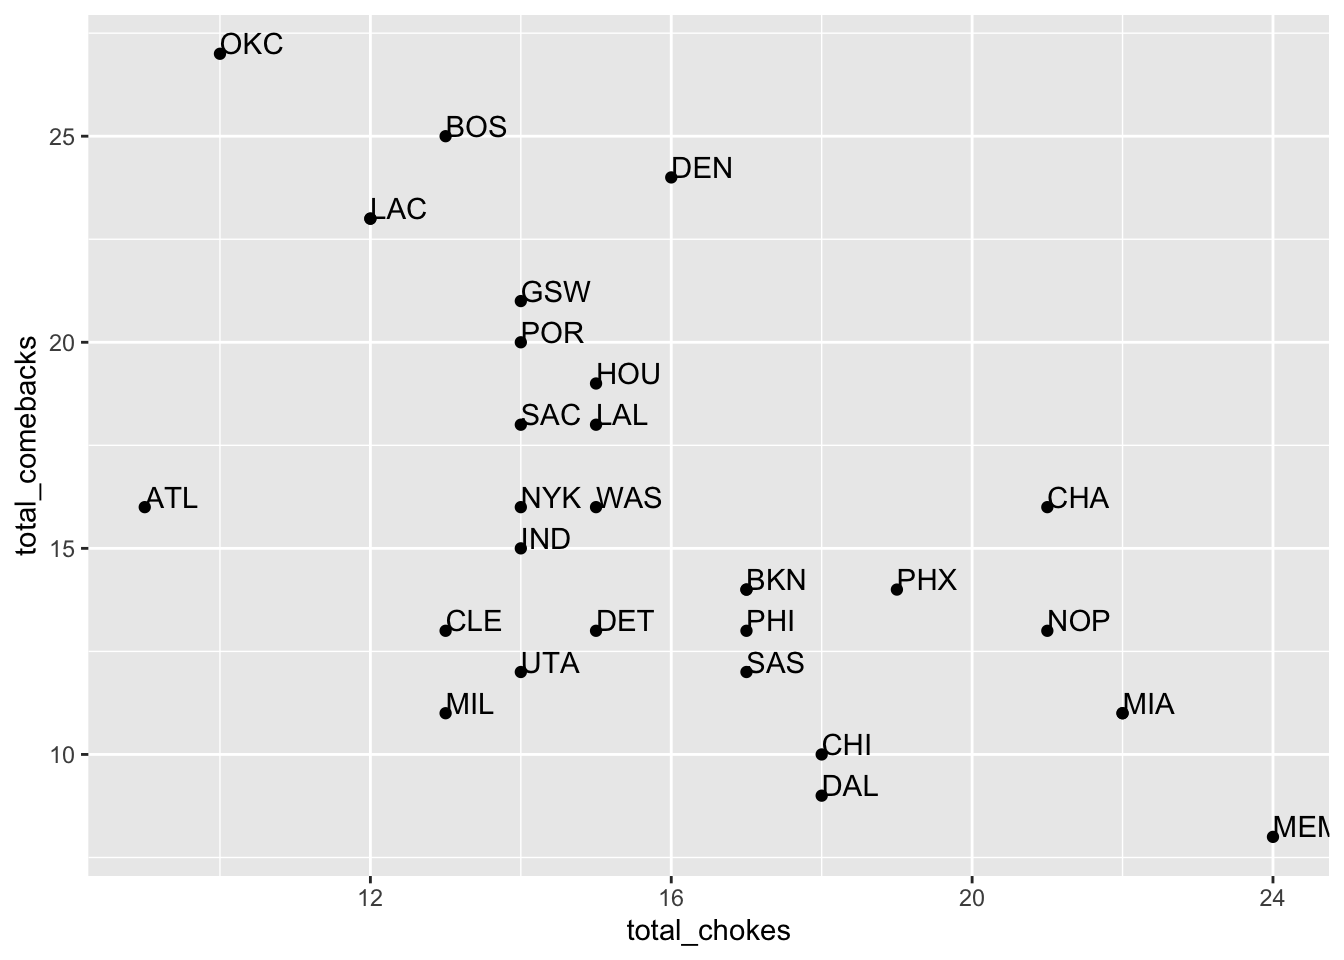
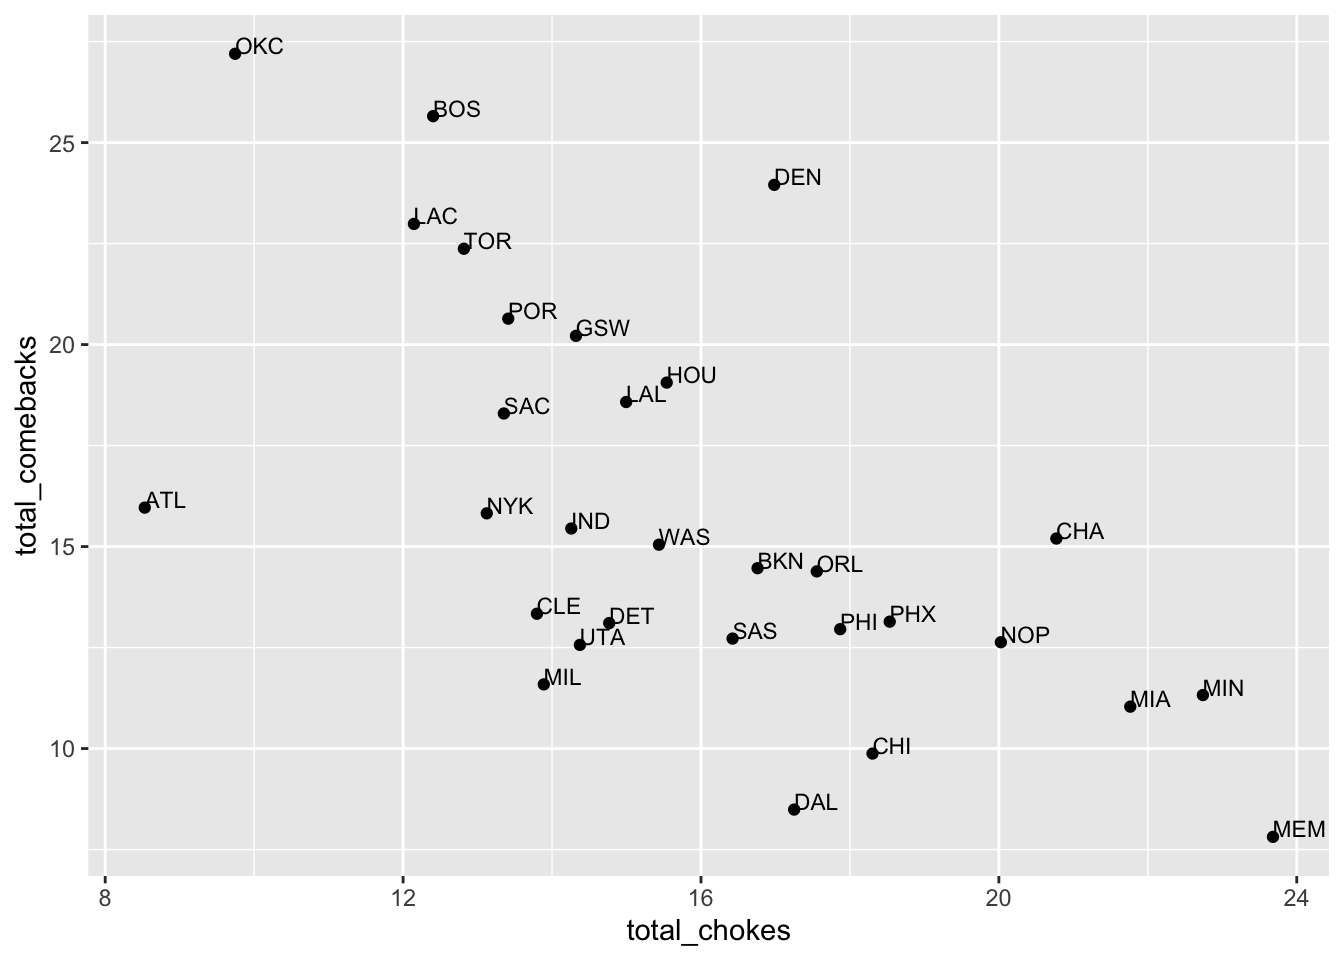
scatter plot writeup

diff --git a/docs/missing-values.html b/docs/missing-values.html
@@ -102,7 +102,7 @@
 <div id="missing-values" class="section level1" number="4">
 <h1><span class="header-section-number">Chapter 4</span> Missing values</h1>
 <p>Play-by-play missing data plot:
-<img src="finalproj_files/figure-html/unnamed-chunk-40-1.png" width="672" /></p>
+<img src="finalproj_files/figure-html/unnamed-chunk-6-1.png" width="672" /></p>
 <p>There are no fully complete cases in our play-by-play data set. While this appeared troublesome at first, further analysis of the dataset showed that these missing values are fairly intuitive. Most notably, there are 3 types of descriptions for (home description , away description, neutral description ). Intuitively, since we are looking at an for each row only 1 will appear in the data set. After looking through the data set, there are 2 specific cases in which there are both home and away descriptions: steal and turnover and shot attempt and blocked shot. Therefore, as we can see in our visualization of missing data, the “Neutral Description” variable is by far the least populated, which makes sense since there are very few reported neutral events in a game (such as: end of quarter 1, start of quarter 4…). However, as explained by the nature of home/visitor description, it is logical why these variables are also sparsely populated, due to their inherent mutually exclusive nature. As a result, we will end up merging these 3 columns into a single “description” variable, which will simply describe the play and will not be organized by home/away/neutral. This merged column will not contain missing values.</p>
 <p>Win probability is a crucial aspect of our analysis, and in our data set, we noticed that no win probabilities for either team are reported past the 5 minute mark in the 4th quarter. It is for this reason that the “HOME_PCT” and “VISITOR_PCT” also contain the next largest count of missing data. Due to this, we will not consider any win probabilities past this point in the game. However, given that our main research question is to classify the reasons for a game that ends in an upset, the 5 minute mark in the 4th quarter is a reasonable of the game to consider as a threshold. Therefore, it must be made clear that throughout our project, we are only able to identify games as ‘chokes’ when a team had a greater than 90% win probability, prior to entering the final 5 minutes of the game. Naturally, we have no issue with this restriction on our data set since the last few seconds of a game are likely extremely volatile and would likely skew our data. As a result, our chokes can be interpreted as instances when a team has a sizable lead at some point in the game prior to the final 5 minutes, and then subsequently loses.</p>
 <p>Other than these 2 important metrics, every other column is completely populated, since they contain data such as the time and points scored for each team, which can logically be reported at every instance of the game.</p>

diff --git a/docs/results.html b/docs/results.html
@@ -102,10 +102,11 @@
 <div id="results" class="section level1" number="5">
 <h1><span class="header-section-number">Chapter 5</span> Results</h1>
 <p>To begin our analysis, it seemed logical to first gain a sense of which teams have recorded the most total chokes, as well as comebacks over the last 4 seasons. As a result, we used a Cleveland Dot plot to display a ranking of these teams.</p>
-<p><img src="finalproj_files/figure-html/unnamed-chunk-43-1.png" width="672" /><img src="finalproj_files/figure-html/unnamed-chunk-43-2.png" width="672" /></p>
+<p><img src="finalproj_files/figure-html/unnamed-chunk-9-1.png" width="672" /><img src="finalproj_files/figure-html/unnamed-chunk-9-2.png" width="672" /></p>
 <p>It is interesting to note here initially the top 5 choke teams as: Memphis, Minnesota, Miami, New Orleans, Charlotte and the top 5 comeback teams as Oklahoma City, Boston, Denver, Toronto and Los Angeles. We will use these teams in a moment to further explore the possible relationships between high choke / comeback teams and other variables.</p>
 <p>Further, it should be noted that being a high-comeback team and being a high-choke team are not entirely mutually exclusive. This initial data visualization showed that it is possible that a team can very well lie in both categories. A team can be simply extremely volatile (or stable) once they have secured a 90% (or fallen to a 10%) win probability, however the direction of that volatility is not consistent. Although there is no overlap within the top 5 teams in each category, it would be useful to determine if certain teams are just extremely volatile in both direction, given a sizable lead or disadvantage.</p>
-<p><img src="finalproj_files/figure-html/unnamed-chunk-44-1.png" width="672" /></p>
+<p><img src="finalproj_files/figure-html/unnamed-chunk-10-1.png" width="672" /></p>
+<p>Some interesting findings from this scatter plot is that there are indeed some teams with notable volatility (and stability) in their game play. For instance, Charlotte, a team we already identified to be within the top 5 choke teams also has a sizable number of comebacks. Further, Denver, a team that ranked in the top 5 comeback teams, was also within the top half of choke-prone teams. As a result, these two teams stand out in that for both of them, they stand out, relative to the rest of the league, in that their games often result in improbable endings, for better and for worse. Therefore, it would be of interest to investigate further aspects of these teams that cause them to stand out as improbable ending prone teams. Additionally, it was not surprising to notice that the number 1 team in both chokes and comebacks, MEM and OKC respectively, both ranked among the lowest in their respective opposite category.</p>
 
 </div>
             </section>
